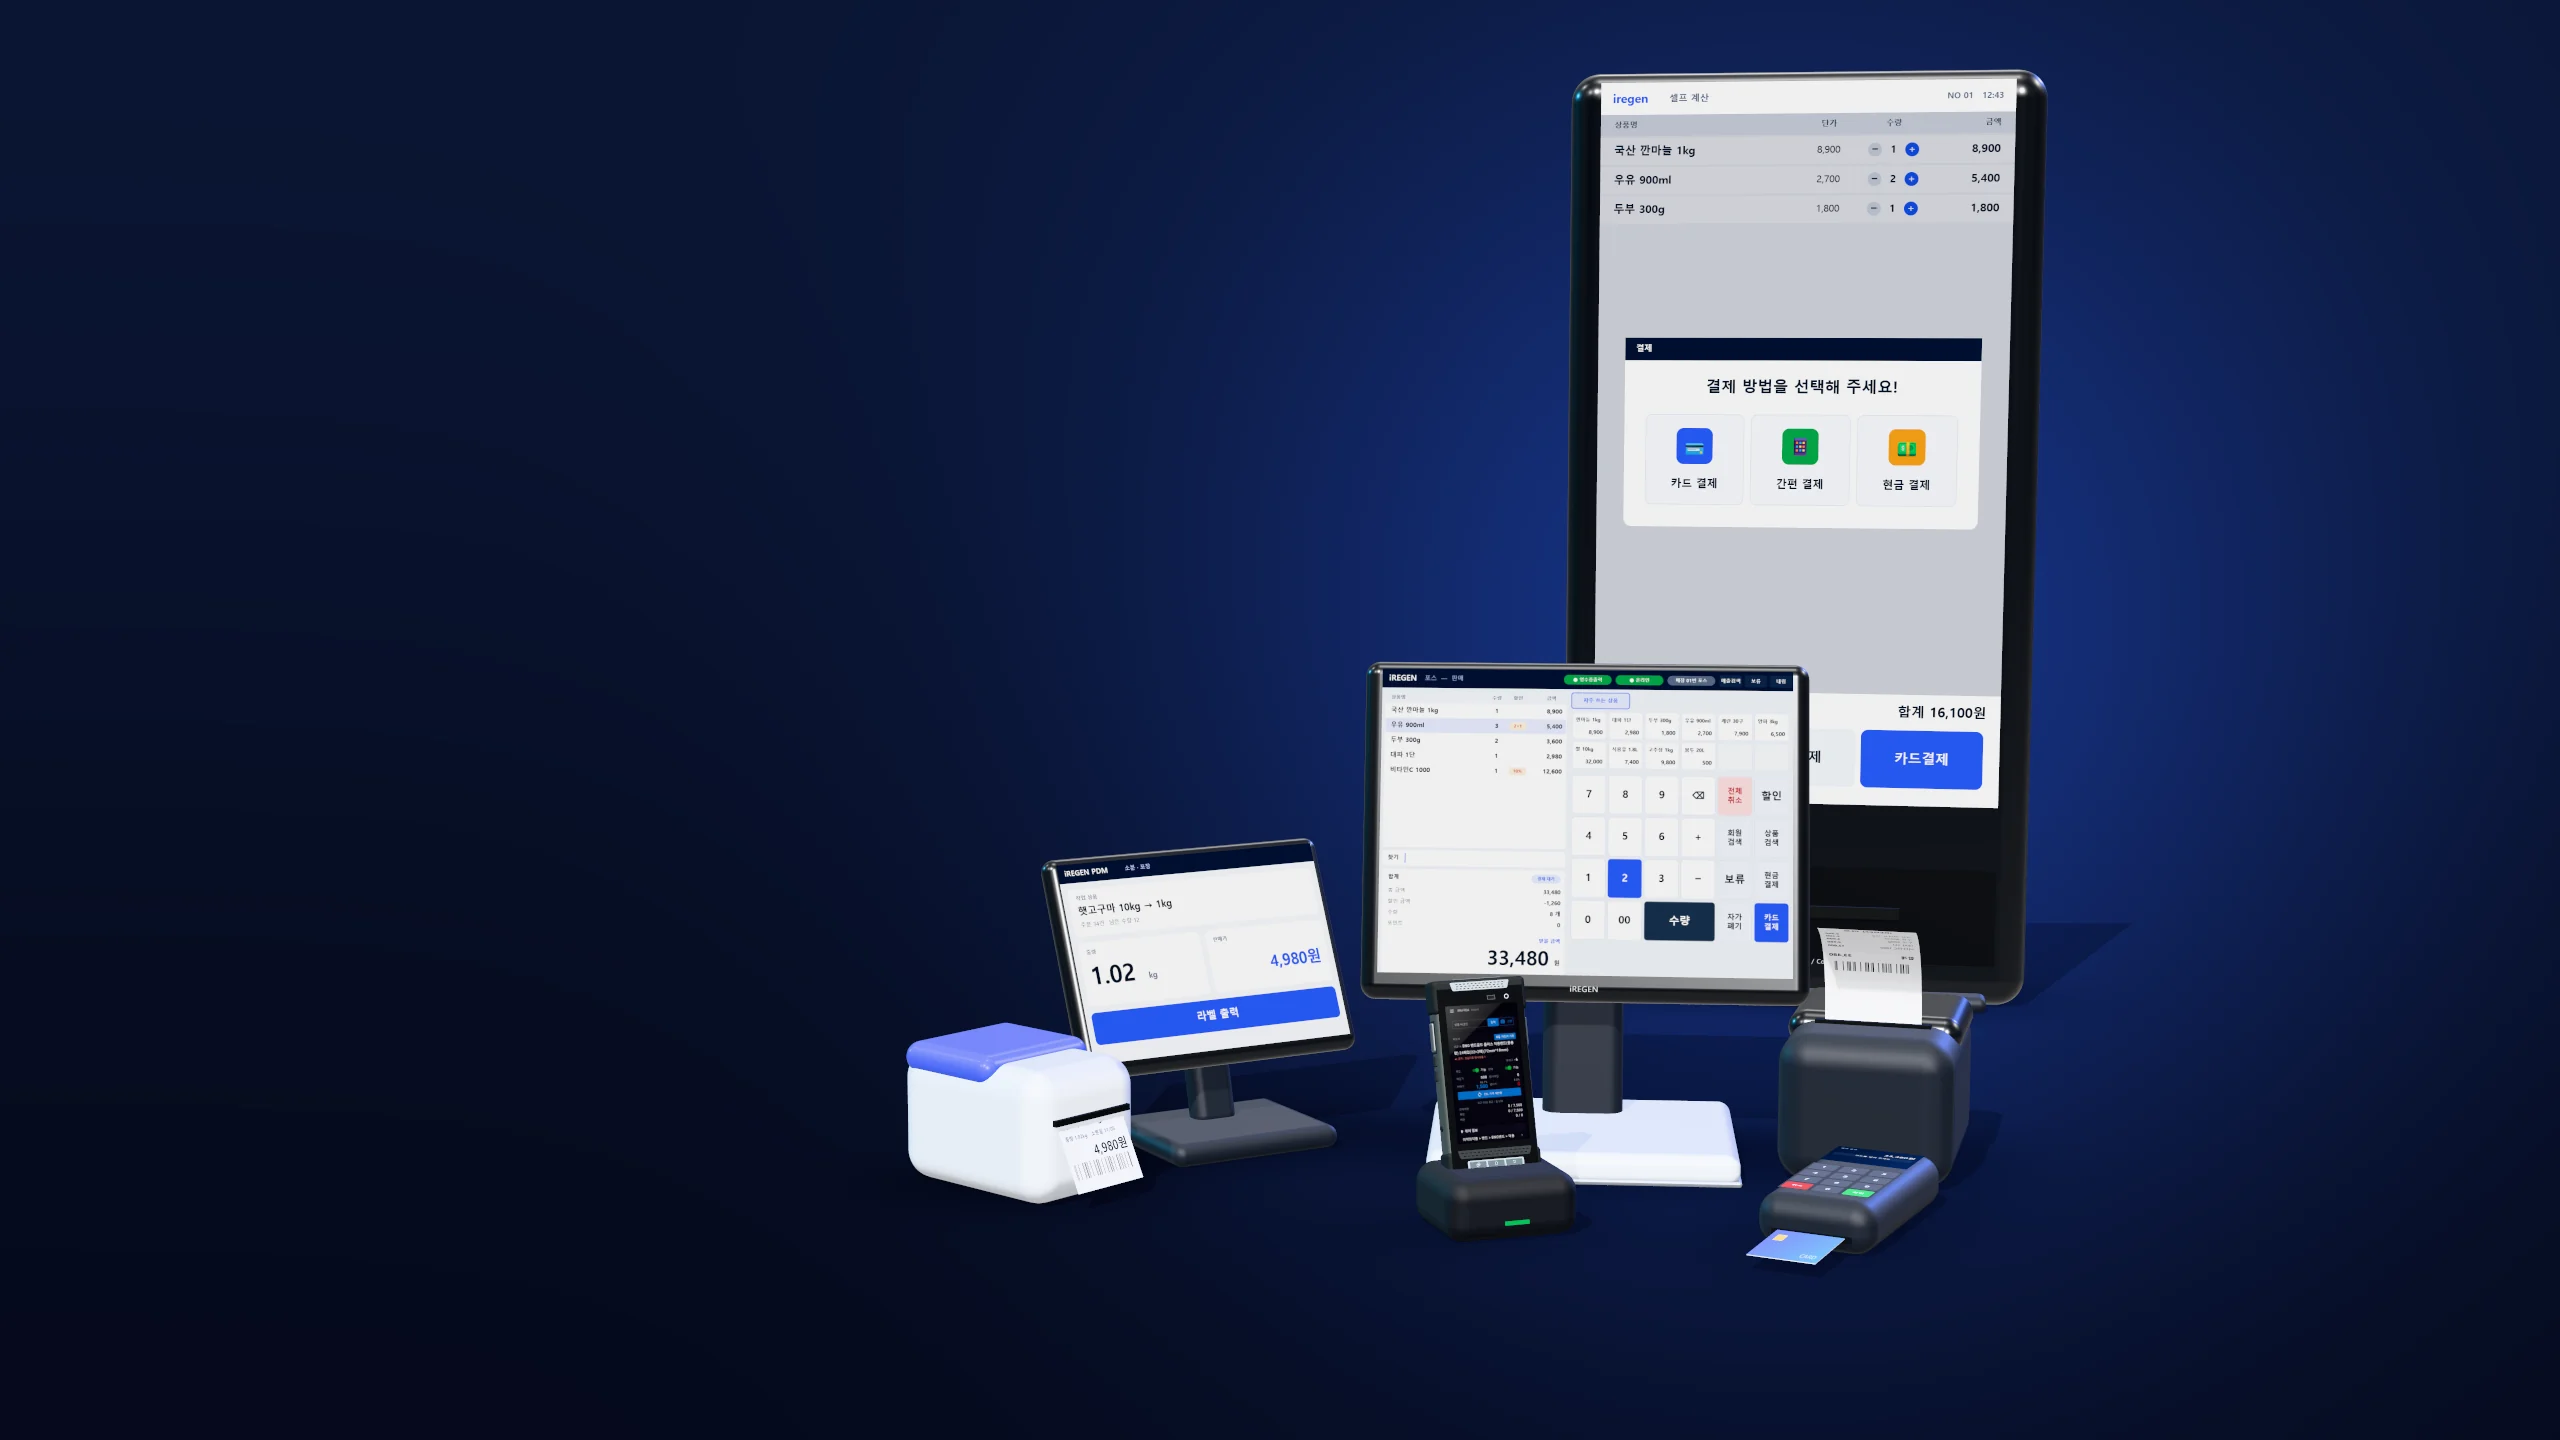
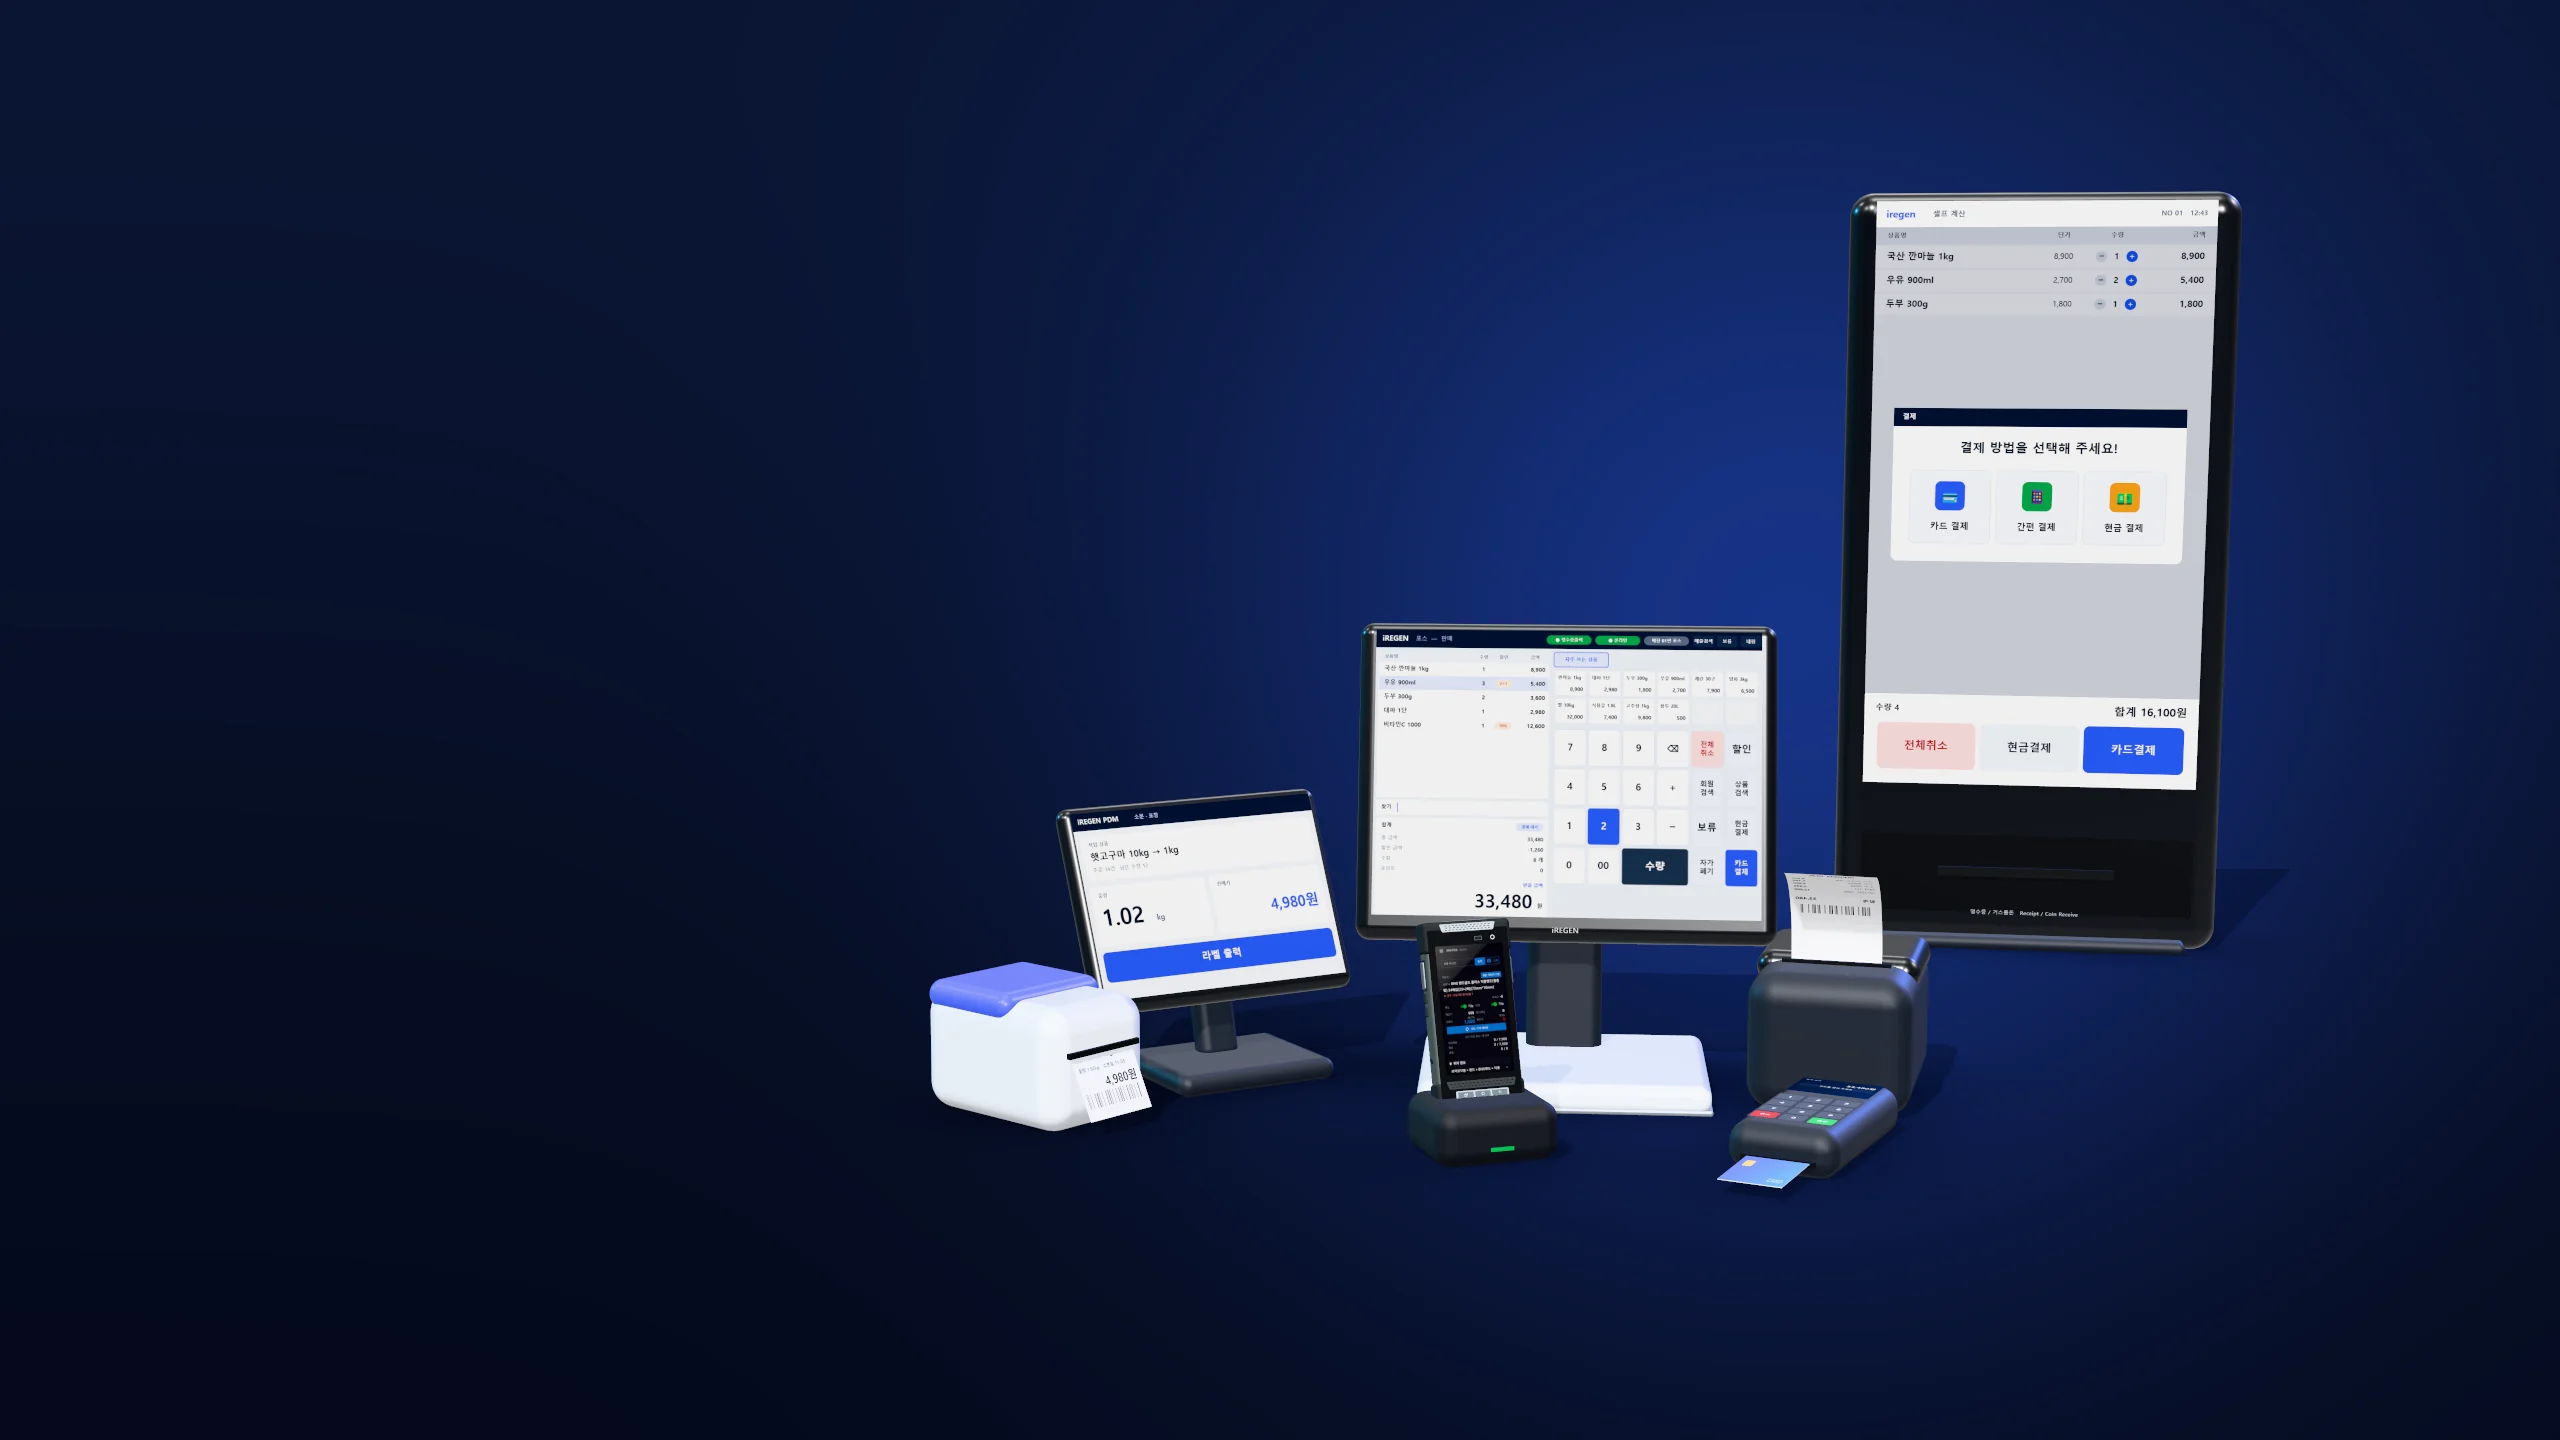
장비 배너 구도: 키오스크를 오른쪽 뒤로·조금 작게, 전체를 살짝 멀리(위쪽 여백), 모바일 그림 가운데·윗면 흐리게

Changed region(s): [[0.3438, 0.0312, 0.875, 0.875]]

diff --git a/index.html b/index.html
@@ -11,7 +11,7 @@
 <link rel="icon" href="assets/img/favicon.svg" type="image/svg+xml">
 <link rel="preconnect" href="https://cdn.jsdelivr.net">
 <link rel="stylesheet" href="https://cdn.jsdelivr.net/gh/orioncactus/pretendard@v1.3.9/dist/web/variable/pretendardvariable-dynamic-subset.min.css">
-<link rel="stylesheet" href="assets/css/style.css?v=5">
+<link rel="stylesheet" href="assets/css/style.css?v=8">
 </head>
 <body>
 <div class="scroll-progress" aria-hidden="true"></div>
@@ -47,7 +47,7 @@
 <main>
 <!-- ============ 히어로 ============ -->
 <section class="hero" aria-label="아이리젠 소개">
-  <div class="hero-photo" aria-hidden="true"><picture><source media="(max-width: 760px)" srcset="assets/img/hero-devices-sm.webp?v=2"><img src="assets/img/hero-devices.webp?v=2" alt="" width="2560" height="1440" decoding="async"></picture></div>
+  <div class="hero-photo" aria-hidden="true"><picture><source media="(max-width: 760px)" srcset="assets/img/hero-devices-sm.webp?v=3"><img src="assets/img/hero-devices.webp?v=3" alt="" width="2560" height="1440" decoding="async"></picture></div>
   <div class="hero-grid" aria-hidden="true"></div>
   <div class="hero-orb o1" aria-hidden="true"></div>
   <div class="hero-orb o2" aria-hidden="true"></div>

diff --git a/assets/css/style.css b/assets/css/style.css
@@ -518,7 +518,7 @@ body.nav-open .mnav { transform: none; }
 @media (max-width: 760px) {
   .container { padding: 0 20px; }
   .hero-photo { background: #08102b; }
-  .hero-photo picture { position: absolute; right: -11%; bottom: 76px; width: 160%; }
+  .hero-photo picture { position: absolute; right: -8%; bottom: 80px; width: 150%; -webkit-mask-image: linear-gradient(180deg, transparent 0%, #000 22%); mask-image: linear-gradient(180deg, transparent 0%, #000 22%); }
   .hero-photo img { height: auto; object-fit: contain; }
   .hero-photo::after { background: linear-gradient(180deg, rgba(5,10,28,.96) 0%, rgba(5,10,28,.8) 42%, rgba(5,10,28,0) 64%); }
   .section { padding: 84px 0; }
